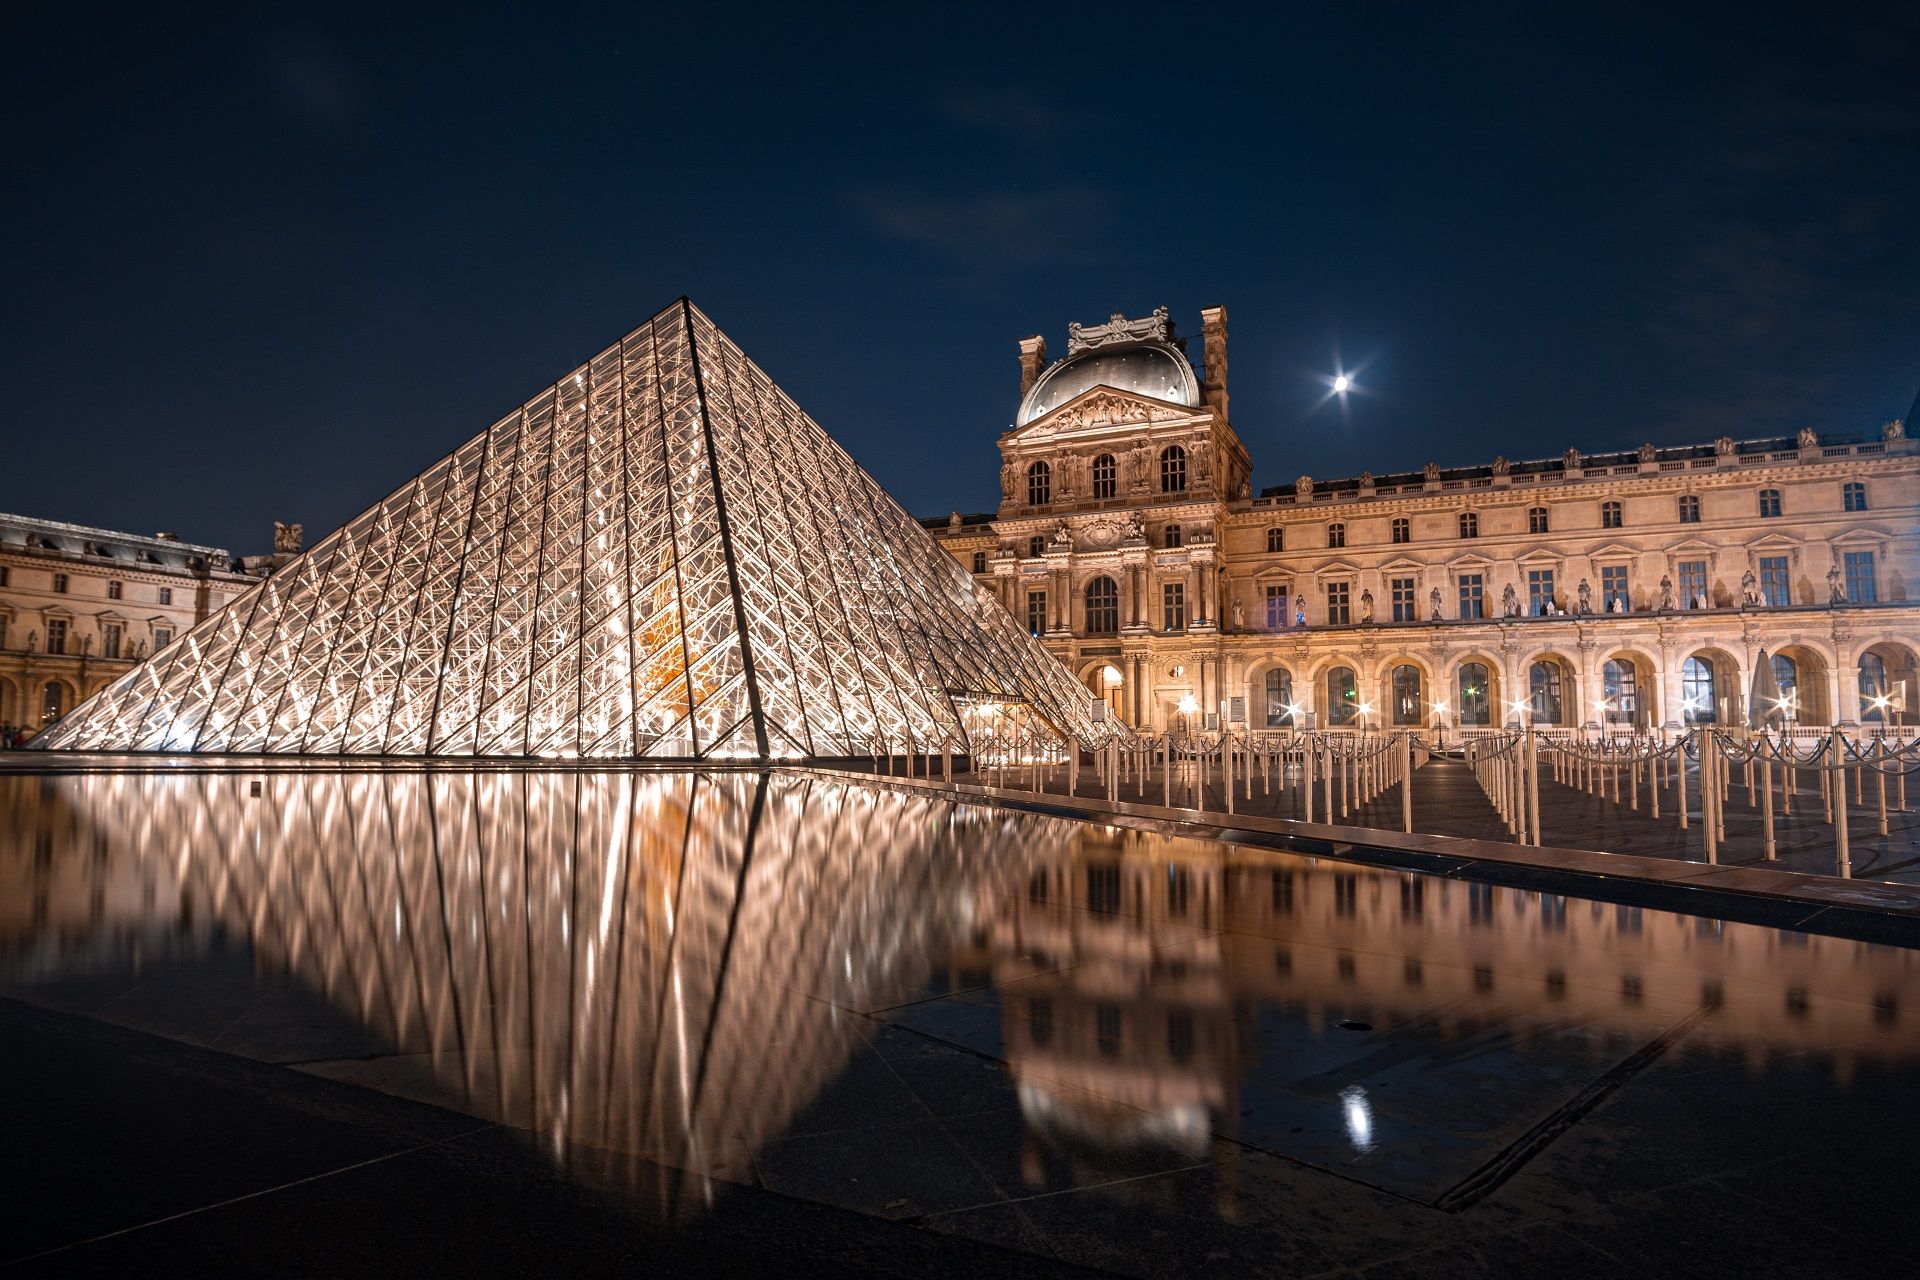
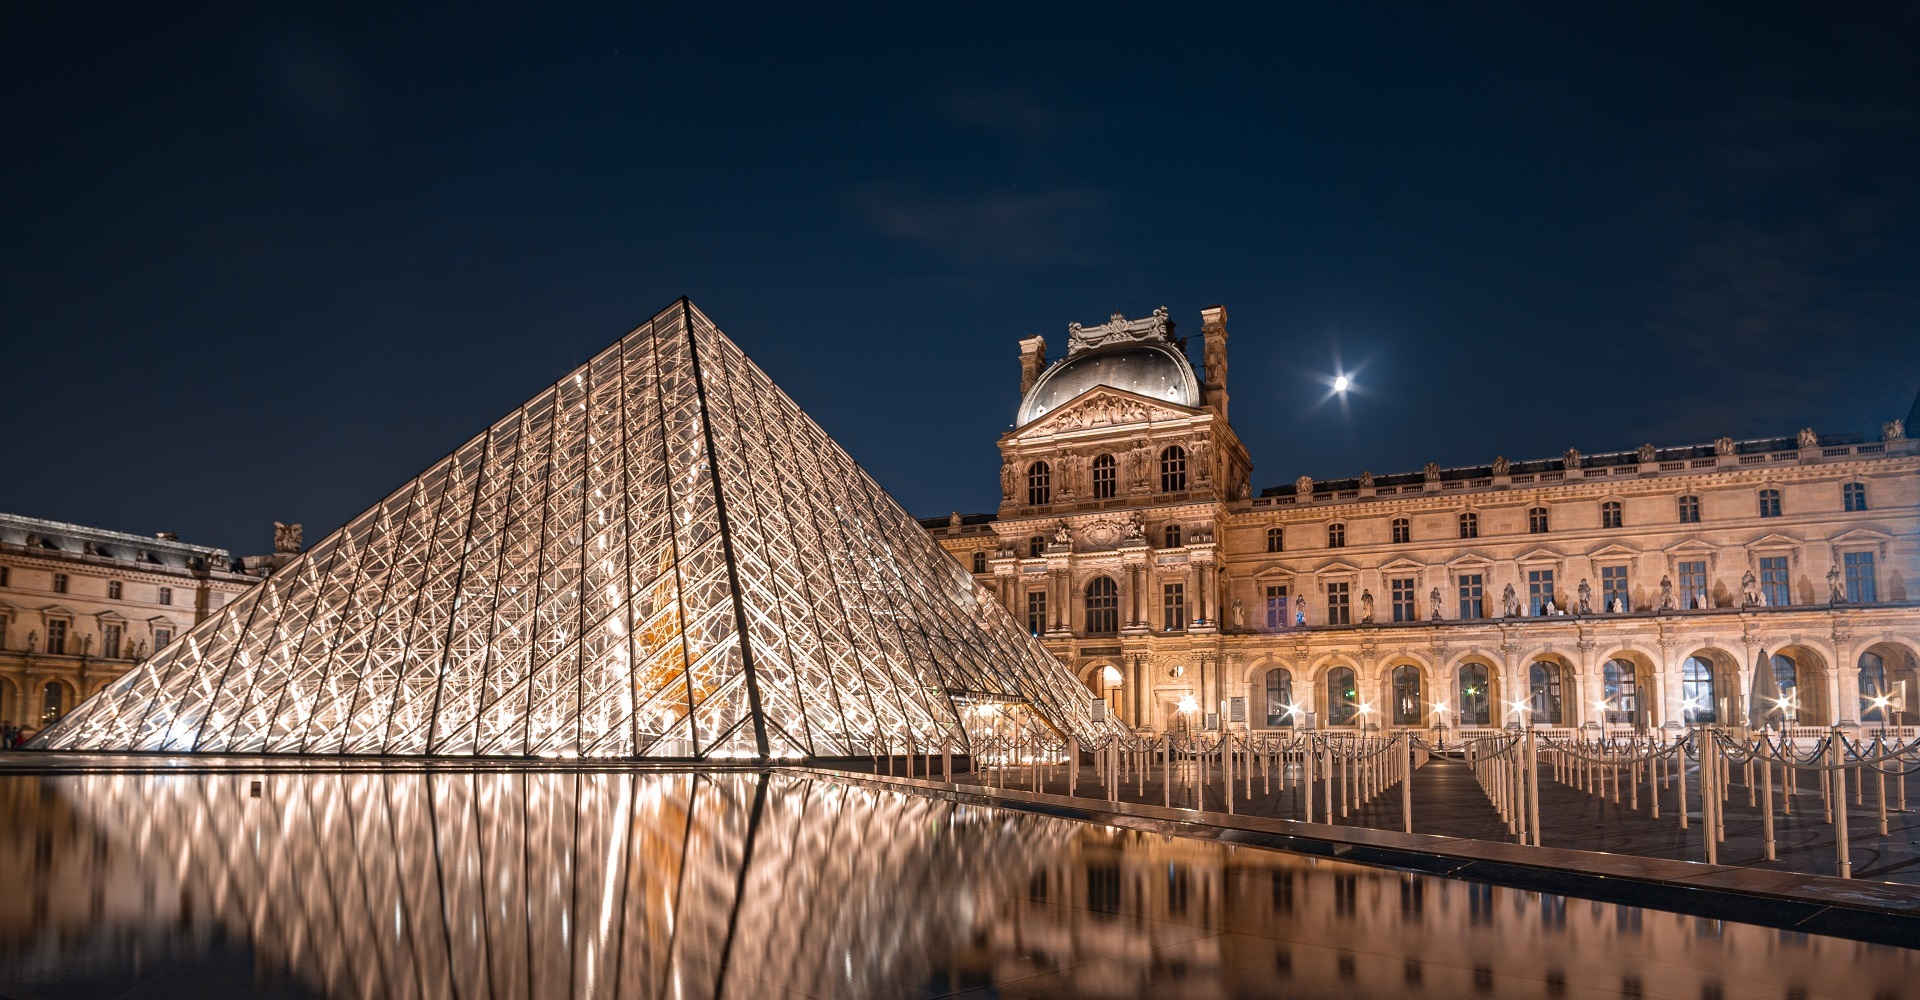
20220525_project2_jingyu1
메인 업데이트 및 이미지 변경

diff --git a/index.html b/index.html
@@ -14,6 +14,14 @@
     <link rel="preconnect" href="https://fonts.gstatic.com" crossorigin>
     <link href="https://fonts.googleapis.com/css2?family=Cormorant+Unicase:wght@300&family=Fraunces:opsz,wght@9..144,500&display=swap" rel="stylesheet">
 
+    <link rel="preconnect" href="https://fonts.googleapis.com">
+    <link rel="preconnect" href="https://fonts.gstatic.com" crossorigin>
+    <link href="https://fonts.googleapis.com/css2?family=Bree+Serif&family=Cormorant+Unicase:wght@300&display=swap" rel="stylesheet">
+
+    <link rel="preconnect" href="https://fonts.googleapis.com">
+<link rel="preconnect" href="https://fonts.gstatic.com" crossorigin>
+<link href="https://fonts.googleapis.com/css2?family=Cormorant+Unicase:wght@300&family=Public+Sans&display=swap" rel="stylesheet">
+
 
     <style>
         * { margin: 0; padding: 0; box-sizing: border-box; }
@@ -21,46 +29,51 @@
         a { text-decoration: none; }
         header a:visited { color: #fff; }
         section a:visited { color: #fff; }
+        footer a:visited { color: #fff; }
 
         #wrap { width: 1920px; height: auto; margin: 0 auto;  }
         header { width: 100%; height: 200px; margin: 0 auto; color: #fff; position: absolute; z-index: 6; top: 0; left: 0; right: 0; }
-        header .main_subject { width: 300px; height: 100px; font-size: 80px; float: left; font-family: 'Cormorant Unicase', serif; }
-        header #menu { width: 500px; display: flex; justify-content: space-between; float: right; font-family: 'Fraunces', serif; }
+        header .main_subject { width: 300px; height: 100px; font-size: 120px; float: left; font-family: 'Cormorant Unicase', serif;
+                               padding-top: 50px; margin-left: 100px; }
+        header #menu { width: 500px; display: flex; justify-content: space-between; float: right; font-family: 'Fraunces', serif;
+                       padding-top: 75px; margin-right: 100px; font-size: 20px; }
 
-        #slider { width: 100%; height: 1280px; margin: 0 auto; text-align: center; }
-        #slider .main_rotating_image { width: 100%; height: 1280px; animation: fadein 3.95s infinite; -moz-animation: fadein 3.95s infinite; 
-                                       -webkit-animation: fadein 3.95s infinite; -o-animation: fadein 3.95s infinite; }
+        #slider { width: 100%; height: 1000px; margin: 0 auto; text-align: center; }
+        #slider .main_rotating_image { max-width: 100%; position: relative; margin: auto; height: 1000px; background-attachment: fixed; }
+        #slider .dot { width: 25px; height: 25px; margin: 0 2px; background-color: #F6F6F6; border-radius: 50%; 
+                       display: inline-block; transition: background-color 0.6s ease;  }
+        #slider .dot_container { text-align: center; position: absolute; top: 925px; left: 50%; transform: translateX(-50%);}
+        
+        .slide_images { display: none; width: 100%; vertical-align: middle; }
+        #slider .dot_container .active { background-color: rgb(237, 104, 144); }
+        .fade { animation-name: fade; animation-duration: 1.5s; }
 
-        @keyframes fadein { 
-            from { opacity: 0; } to { opacity: 1; }
+        @keyframes fade { 
+            from { opacity: 0.4; } to { opacity: 1; }
          }
 
-         @-moz-keyframes fadein { 
-            from { opacity: 0; } to { opacity: 1; }
-         }
 
-         @-webkit-keyframes fadein { 
-            from { opacity: 0; } to { opacity: 1; }
-         }
-
-         @-o-keyframes fadein { 
-            from { opacity: 0; } to { opacity: 1; }
-         }
 
 
         #slider .blank_space { width: 200px; height: 150px; float: left;  }
-        #slider #reservation_space { width: 1160px; height: 150px; position: absolute; top: 1000px; 
+        #slider #reservation_space { width: 1160px; height: 150px; position: absolute; top: 720px; 
                                      left: 0; background: rgba(221, 160, 221, 0.5); color: #333; }
         #slider .rv_menu { width: 960px; height: 150px; display: flex; justify-content: center; align-items: center; font-family: 'Fraunces', serif; }
         #slider .rv_box { width: 225px; height: 100px; margin-left: 25px; background-color: honeydew; font-family: 'Fraunces', serif; }
         #slider .rv_payment { width: 225px; height: 150px; background-color: #222; margin-left: 25px; color: #fff; font-family: 'Fraunces', serif; }
-        .rv_payment button { width: 100px; height: 50px; }
+        .rv_payment button { width: 100px; height: 40px; background: rgb(210, 210, 210); cursor: pointer; font-family: 'Bree Serif', serif; }
+        .rv_payment button:hover { background: rgb(185, 185, 210); }
+
+        input[type=date], input[type=time] { width: 110px; height: 30px; background: rgb(216, 245, 255); border: 1px solid silver; margin-top: 25px; cursor: pointer; }
+        input[type=submit] { width: 55px; height: 30px; border-radius: 50px; border: 1px solid silver; background: rgb(195, 233, 145); cursor: pointer; }
+        input:hover[type=submit] { background: rgb(170, 208, 145); }
+        #slider .announcement { color: #fff; font-size: 12px; font-family: 'Public Sans', sans-serif; }
 
         section { width: 1500px; height: 850px; margin: 0 auto; text-align: center; }
         section .louvre_wings { width: 1500px; height: 333px; text-align: center; display: flex;
                                 justify-content: space-between; font-weight: bold; color: #fff;
                                 font-size: 20px; position: relative; }
-        .louvre_wings .titles { position: absolute; bottom: 10px; }
+        .louvre_wings .titles { text-align: center; }
         .wing_image1, .wing_image2, .wing_image3 { cursor: pointer; transition: all 1.5s ease; background-size: cover; background-position: center; }
         .wing_image1 { width: 33%; background-image: url(img/main/richelieu_wing.jpg); }
         .wing_image2 { width: 34%; background-image: url(img/main/denon_wing.jpeg); }
@@ -104,7 +117,9 @@
         #exhibition_space3 .Delacroix { width: 25%; height: 375px; background-image: url(img/main/Delacroix.jpg); background-size: cover;
                                         background-position: center; cursor: pointer; }
         #exhibition_space3 .explain_space5 { width: 25%; height: 375px; font-size: 20px; text-align: center; padding-top: 50px; }
-        .detail_button { width: 125px; height: 50px; cursor: pointer; }
+        .detail_button { width: 175px; height: 50px; cursor: pointer; background: rgb(182, 185, 212); border: 2px solid gray; 
+                         font-family: 'Bree Serif', serif; margin-top: 50px; color: #fff; }
+        .detail_button:hover { background: rgb(157, 160, 212); }
 
         .mona_lisa, .explain_space1 { transition: all 0.75s ease ; }
         .mona_lisa:hover + .explain_space1 { cursor: pointer; background-color: rgb(255,220,60); }
@@ -123,9 +138,9 @@
 
         .explain_space1:hover, .explain_space2:hover, .explain_space3:hover, .explain_space4:hover, .explain_space5:hover {  background-color: rgb(255,220,60); }
 
-        #event_space { width: 100%; height: 718px; position: relative; background-color: rgba(5, 5, 5, 0.85); }
-        #event_space h3 { text-align: center; color: #fff; font-family: 'Cormorant Unicase', serif; }
-        #event_space h1 { text-align: center; color: #fff; font-family: 'Cormorant Unicase', serif; }
+        #event_space { width: 100%; height: 743px; position: relative; background-color: rgba(5, 5, 5, 0.85); }
+        #event_space h3 { text-align: center; color: #fff; font-family: 'Cormorant Unicase', serif; padding-top: 50px; }
+        #event_space h1 { text-align: center; color: #fff; font-family: 'Cormorant Unicase', serif; padding-bottom: 30px; }
 
         #rotating_banner_wrap { width: 850px; height: 600px; margin: auto; position: relative; overflow: hidden;
                                              cursor: pointer; transition: all 1s ease; background: rgba(25, 25, 25, 0.8); }
@@ -197,8 +212,12 @@
 
         #sns_space .insta_icon + b { vertical-align: center; }
 
-        footer { width: 100%; height: 500px; background: rgb(25, 25, 25); color: #fff; display: flex; justify-content: center; align-items: center; }
+        footer { width: 100%; height: 350px; background: rgb(25, 25, 25); color: #fff; font-family: 'Bree Serif', serif; text-align: center; }
+        .footer_container1, .footer_container2 { width: 100%; display: flex; justify-content: center; align-items: center; }
+        .footer_container1 .footer_subject { margin-left: 50px; }
         footer ul { margin-left: 50px; }
+        footer ul li { margin-top: 25px; }
+
         
 
 
@@ -210,21 +229,44 @@
     <div id="wrap">
             <div id="slider">
                 <div class="main_rotating_image">
-                    <img src="img/main/Louvre_slider1.jpg" alt="메인 이미지">
+                    <div class="slide_images fade">
+                        <img src="img/main/Louvre_slider1.jpg" alt="메인 이미지">
+                    </div>
+                    <div class="slide_images fade">
+                        <img src="img/main/Louvre_slider2.jpg" alt="메인 이미지">
+                    </div>
+                    <div class="slide_images fade">
+                        <img src="img/main/Louvre_slider3.jpg" alt="메인 이미지">
+                    </div>
+                    
+
+                    <div class="dot_container">
+                        <span class="dot"></span>
+                        <span class="dot"></span>
+                        <span class="dot"></span>
+                    </div>
                 </div>
 
                 <script>
-                    var Changing_image = document.getElementsByTagName('img')[0];
-                    var image_array = ["img/main/Louvre_slider1.jpg", "img/main/Louvre_slider2.jpg", "img/main/Louvre_slider3.jpg"];
-                    var index = 0;
-                    function Changing_img(){
-                        Changing_image.src = image_array[index];
-                        index++;
-                        if(index>=image_array.length){
-                            index = 0;
+                    let slideIndex = 0;
+                    showslideImage();
+
+                    function showslideImage(){
+                        let i;
+                        let slides = document.getElementsByClassName("slide_images");
+                        let dots = document.getElementsByClassName("dot");
+                        for (i=0; i<slides.length; i++){
+                            slides[i].style.display = "none";
                         }
+                        slideIndex++;
+                        if (slideIndex > slides.length){slideIndex = 1;}
+                        for (i=0; i<dots.length; i++){
+                            dots[i].className = dots[i].className.replace(" active", "");
+                        }
+                        slides[slideIndex-1].style.display = "block";
+                        dots[slideIndex-1].className += " active";
+                        setTimeout(showslideImage, 4000);
                     }
-                    setInterval(Changing_img, 4000);
                 </script>
 
 
@@ -265,7 +307,10 @@
                             <input type="submit" value="submit">
                         </div>
                         <div class="rv_payment">
-                            <p>payment</p>
+                            <p>payment</p><br>
+                            <p class="announcement">All tickets purchased online are 
+                                time-stamped and nominative; you may therefore be asked
+                                to provide proof of identity.</p>
                             <button>Learn more</button>
                         </div>
                     </div>
@@ -279,13 +324,13 @@
         <section>
             <div class="louvre_wings">
                 <div class="wing_image1">
-                    <span class="titles">Richelieu wing</span>
+                    <p class="titles">Richelieu wing</p>
                 </div>
                 <div class="wing_image2">
-                    <span class="titles">Denon wing</span>
+                    <p class="titles">Denon wing</p>
                 </div>
                 <div class="wing_image3">
-                    <span class="titles">Sully wing</span>
+                    <p class="titles">Sully wing</p>
                 </div>
             </div>
             <p class="welcome">Welcome to Louvre Museum</p>
@@ -318,7 +363,7 @@
                    the most written about, the most sung about, the most parodied
                     work of art in the world".<br>
 
-                    Artist: Leonardo da Vinci<br>
+                    
                 <button class="detail_button">Learn More Details</button>
             </div>
         </div>
@@ -592,33 +637,39 @@
                         <img src="img/main/instagram_icon2.png" alt="인스타그램 아이콘" class="insta_icon"><b>2022.03.30</b>
                     </div>
                 </div>
-            <div>
+            </div>
         </div>
 
         <footer>
-            <ul>
-                <li>The public establishment</li>
-                <li>Visit rules</li>
-                <li>Loans and deposits</li>
-                <li>Public procurement and state occupation</li>
-                <li>Administrative acts</li>
-            </ul>
 
-            <ul>
-                <li>Ticket office</li>
-                <li>online shop</li>
-                <li>collections</li>
-                <li>online donation</li>
-                <li>Editions</li>
-            </ul>
+                <div class="footer_container1">
+                    <h3 class="footer_subject"><a href="#">The public establishment</a></h3>
+                    <h3 class="footer_subject"><a href="#">Ticket office</a></h3>
+                    <h3 class="footer_subject"><a href="#">FAQ</a></h3>
+                </div>
 
-            <ul>
-                <li>FAQ</li>
-                <li>contacts</li>
-                <li>Give us your opinion!</li>
-                <li>Job offers</li>
-                <li>Privatizations and filming</li>
-            </ul>
+            <div class="footer_container2">
+                <ul>
+                    <li><a href="#">Visit rules</a></li>
+                    <li><a href="#">Loans and deposits</a></li>
+                    <li><a href="#">Public procurement and state occupation</a></li>
+                    <li><a href="#">Administrative acts</a></li>
+                </ul>
+
+                <ul>
+                    <li><a href="#">online shop</a></li>
+                    <li><a href="#">collections</a></li>
+                    <li><a href="#">online donation</a></li>
+                    <li><a href="#">Editions</a></li>
+                </ul>
+
+                <ul>
+                    <li><a href="#">contacts</a></li>
+                    <li><a href="#">Give us your opinion!</a></li>
+                    <li><a href="#">Job offers</a></li>
+                    <li><a href="#">Privatizations and filming</a></li>
+                </ul>
+            </div>
         </footer>
 
         
